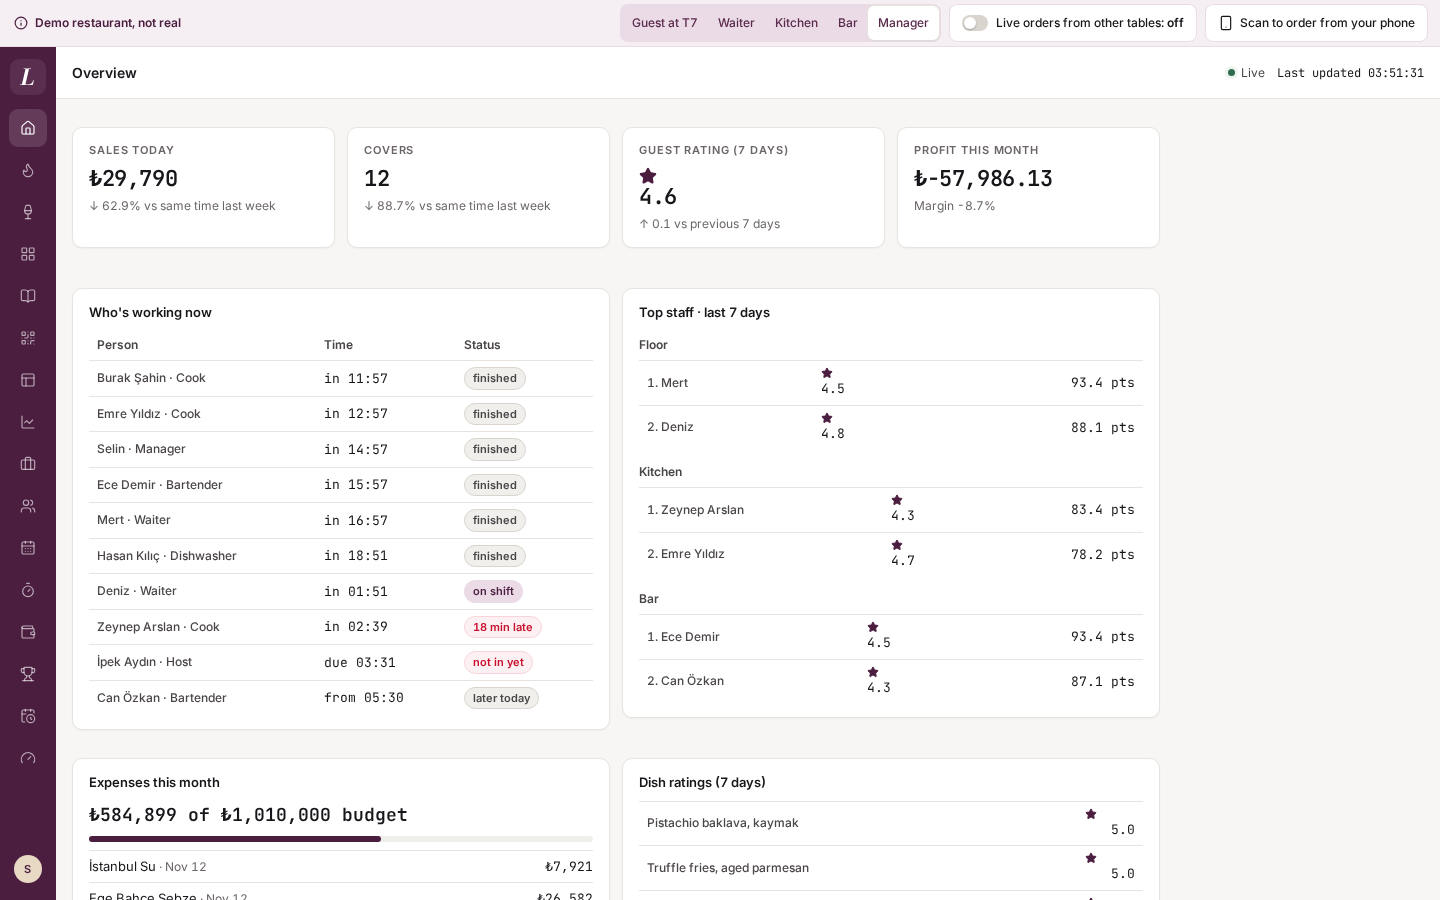
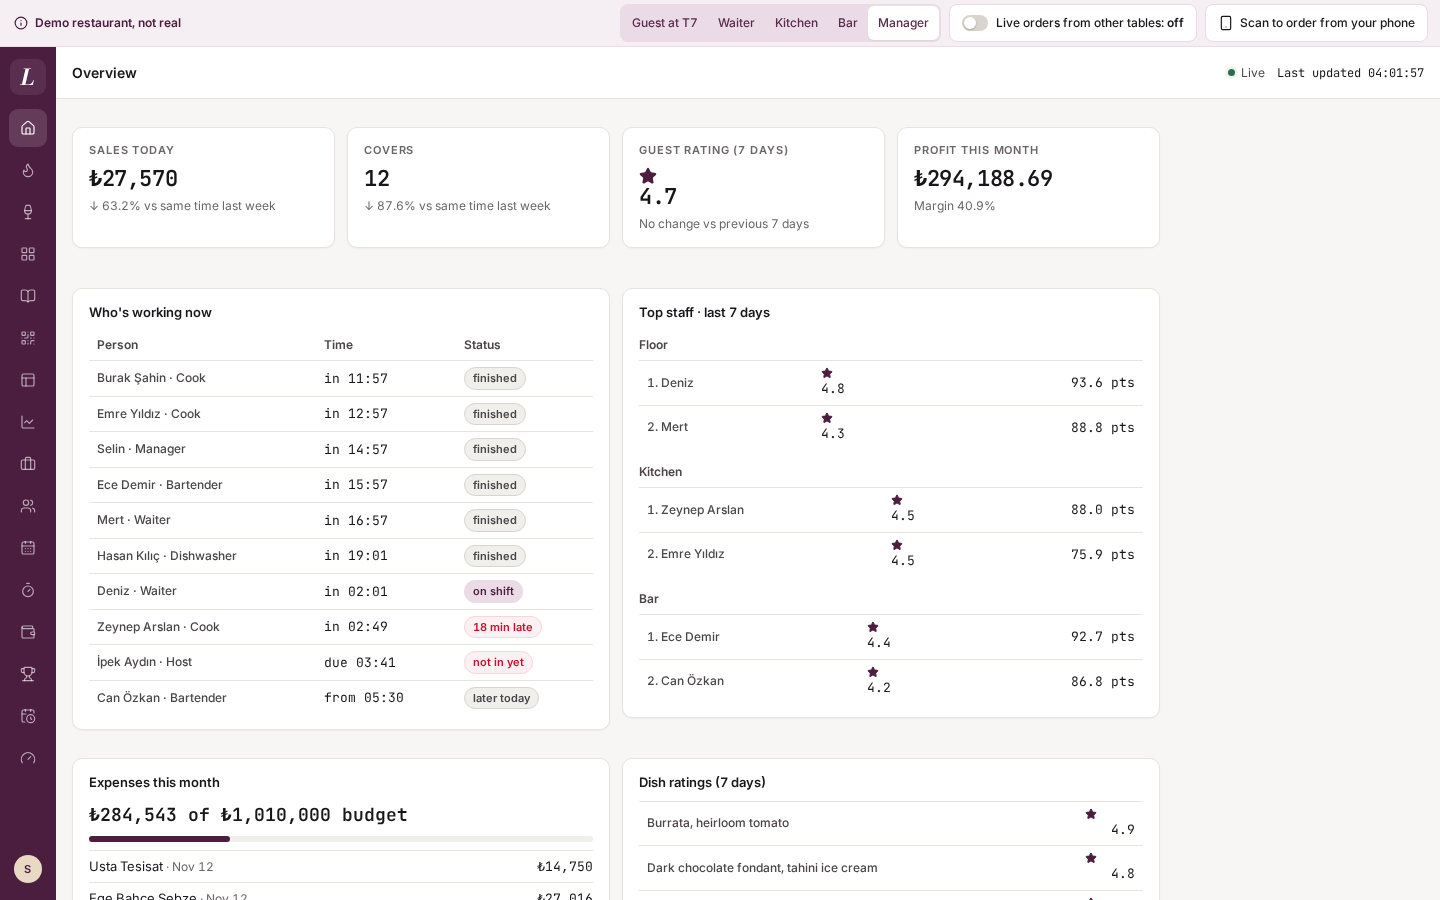
fix(demo): manager lands on the overview; seed a profitable current month
The demo Manager button opens /staff/overview. Rent is dated on each month's last day (so the current month's is not
in yet), utilities around the 20th, marketing weekly, and the Repairs spike in the last three days (over budget from
the 4th). A fresh demo's overview now shows a positive profit. Docs and the overview screenshot updated.

Claude-Session: https://claude.ai/code/session_01G1gUztbjonzCYopjxcu6K3

diff --git a/apps/api/test/seed.test.ts b/apps/api/test/seed.test.ts
@@ -1,6 +1,6 @@
 import { existsSync } from "node:fs";
 import { resolve } from "node:path";
-import { addDays, mondayOf, rateAt, serviceDayOf, serviceDayStartOf, splitByStation, TABLE_NAME_RE, ticketAgeState } from "@lodos/shared";
+import { addDays, monthLength, mondayOf, rateAt, serviceDayOf, serviceDayStartOf, splitByStation, TABLE_NAME_RE, ticketAgeState } from "@lodos/shared";
 import { afterAll, beforeAll, describe, expect, it } from "vitest";
 import { verifyPin } from "../src/auth/pin";
 import { createSession } from "../src/auth/sessions";
@@ -650,7 +650,7 @@ describe("demo ops seed (phase 3)", () => {
     }
   });
 
-  it("seeds four months of expenses: budgets, rent on the 1st, utilities around the 10th, Repairs over budget this month, none in the future", async () => {
+  it("seeds four months of expenses: budgets, rent on the last day, utilities around the 20th, weekly marketing, Repairs over budget this month, none in the future", async () => {
     const m = t.models;
     const [cats, expenses] = await inTenant(A, () => Promise.all([m.ExpenseCategory.find().sort({ sort: 1 }).lean(), m.Expense.find().lean()]));
     expect(cats.map((c) => [c.name.en, c.monthlyBudget / 100_000])).toEqual([
@@ -664,9 +664,12 @@ describe("demo ops seed (phase 3)", () => {
     for (const month of months) {
       const mine = expenses.filter((e) => e.date.startsWith(month));
       const rent = mine.filter((e) => catOf.get(String(e.categoryId)) === "Rent");
-      expect(rent.map((e) => [e.date.slice(8), e.amount])).toEqual([["01", 220_000_00]]);
+      // Paid on the month's last day, so the current month's is not in yet.
+      expect(rent.map((e) => [e.date, e.amount])).toEqual(month === "2026-11" ? [] : [[`${month}-${String(monthLength(month))}`, 220_000_00]]);
       const utilities = mine.filter((e) => catOf.get(String(e.categoryId)) === "Utilities");
-      for (const u of utilities) expect(Math.abs(Number(u.date.slice(8)) - 10)).toBeLessThanOrEqual(3);
+      for (const u of utilities) expect(Math.abs(Number(u.date.slice(8)) - 20)).toBeLessThanOrEqual(3);
+      const marketing = mine.filter((e) => catOf.get(String(e.categoryId)) === "Marketing").map((e) => Number(e.date.slice(8)));
+      marketing.forEach((d, i) => i > 0 && expect(d - marketing[i - 1]!).toBe(7));
       const food = mine.filter((e) => catOf.get(String(e.categoryId)) === "Suppliers – food");
       expect(new Set(food.map((e) => e.date)).size).toBe(food.length);
     }
@@ -679,13 +682,39 @@ describe("demo ops seed (phase 3)", () => {
       }
     }
     expect(spent("2026-11", "Repairs and maintenance")).toBeGreaterThan(60_000_00);
-    // On the 1st of a month too, Repairs is already over budget and nothing is dated after today.
-    const first = new Date("2026-12-01T09:00:00Z");
-    const id = newTenant();
-    await seedRestaurant(t.models, id, first, { liveService: true });
-    const [c2, e2] = await inTenant(id, () => Promise.all([m.ExpenseCategory.find().lean(), m.Expense.find().lean()]));
-    const repairs = String(c2.find((c) => c.name.en.startsWith("Repairs"))!._id);
-    expect(e2.every((e) => e.date <= serviceDayOf(first))).toBe(true);
-    expect(e2.filter((e) => e.date.startsWith("2026-12") && String(e.categoryId) === repairs).reduce((n, e) => n + e.amount, 0)).toBeGreaterThan(60_000_00);
+    // The spike is dated in the last three days; before the 4th only the compressor is in (under budget), and
+    // nothing is ever dated after today.
+    const repairsOn = async (now: Date) => {
+      const id = newTenant();
+      await seedRestaurant(t.models, id, now, { liveService: true });
+      const [c2, e2] = await inTenant(id, () => Promise.all([m.ExpenseCategory.find().lean(), m.Expense.find().lean()]));
+      const repairs = String(c2.find((c) => c.name.en.startsWith("Repairs"))!._id);
+      expect(e2.every((e) => e.date <= serviceDayOf(now))).toBe(true);
+      const month = serviceDayOf(now).slice(0, 7);
+      return e2.filter((e) => e.date.startsWith(month) && String(e.categoryId) === repairs);
+    };
+    const total = (rows: { amount: number }[]) => rows.reduce((n, e) => n + e.amount, 0);
+    const first = await repairsOn(new Date("2026-12-01T09:00:00Z"));
+    expect(first.map((e) => e.date)).toEqual(["2026-12-01"]);
+    expect(total(first)).toBeLessThan(60_000_00);
+    const fifth = await repairsOn(new Date("2026-12-05T09:00:00Z"));
+    expect(total(fifth)).toBeGreaterThan(60_000_00);
+    expect(fifth.every((e) => e.date >= "2026-12-02")).toBe(true);
   });
+
+  for (const iso of ["2026-11-14T18:00:00Z", "2026-11-05T18:00:00Z"]) {
+    it(`a fresh demo's overview shows a profit this month at ${iso}`, async () => {
+      const now = new Date(iso);
+      const id = newTenant();
+      await seedRestaurant(t.models, id, now, { liveService: true });
+      t.clock.set(now);
+      try {
+        const res = await managerGet(id, "/api/business/overview");
+        expect(res.statusCode, res.body).toBe(200);
+        expect(res.json().month.profit).toBeGreaterThan(0);
+      } finally {
+        t.clock.set(NOW);
+      }
+    });
+  }
 });

diff --git a/apps/api/src/seed/ops-seed.ts b/apps/api/src/seed/ops-seed.ts
@@ -445,8 +445,10 @@ const dow = (day: string) => new Date(`${day}T00:00:00Z`).getUTCDay();
 
 /**
  * Four calendar months of a Karaköy bistro's spending (this one so far): supplier deliveries spread over the month,
- * rent on the 1st, utilities around the 10th, and a broken cold room that puts Repairs over budget this month.
- * Past months stay within every budget. Nothing is dated after today.
+ * rent on the last day of each month (paid in advance for the next, so this month's is not in yet), utilities around
+ * the 20th, marketing every week, and a broken cold room in the last three days that puts Repairs over budget this
+ * month once it is the 4th (before that only the compressor is in). Past months stay within every budget. Nothing is
+ * dated after today.
  */
 function demoExpenses(today: string, catId: (en: string) => Types.ObjectId, createdBy: Types.ObjectId, rand: () => number, randInt: (lo: number, hi: number) => number) {
   const out: { categoryId: Types.ObjectId; amount: number; date: string; payee: string | null; note: string | null; createdBy: Types.ObjectId }[] = [];
@@ -474,21 +476,22 @@ function demoExpenses(today: string, catId: (en: string) => Types.ObjectId, crea
       ["Trakya Et", "Meat"], ["Bolu Süt Çiftliği", "Dairy and cheese"],
     ]);
     deliveries("Suppliers – drinks", [3, 6], [["Galata Şarap Evi", "Wine"], ["Boğaz İçecek Dağıtım", "Spirits and mixers"]]);
-    add("Rent", 1, DEMO_BUDGETS.Rent!, "Kemankeş Emlak", "Monthly rent");
-    add("Utilities", 8, lira(2_450), "Kuzey Fiber", "Internet");
-    add("Utilities", 10, lira(randInt(42_000, 50_000)), "Haliç Enerji", "Electricity");
-    add("Utilities", 11, lira(randInt(16_000, 24_000)), "Marmara Doğalgaz", "Gas");
-    add("Utilities", 12, lira(randInt(6_500, 9_000)), "İstanbul Su", "Water");
+    add("Rent", monthLength(month), DEMO_BUDGETS.Rent!, "Kemankeş Emlak", "Monthly rent");
+    add("Utilities", 18, lira(2_450), "Kuzey Fiber", "Internet");
+    add("Utilities", 20, lira(randInt(42_000, 50_000)), "Haliç Enerji", "Electricity");
+    add("Utilities", 21, lira(randInt(16_000, 24_000)), "Marmara Doğalgaz", "Gas");
+    add("Utilities", 22, lira(randInt(6_500, 9_000)), "İstanbul Su", "Water");
     if (month === thisMonth) {
       const d = Number(today.slice(8));
-      add("Repairs and maintenance", Math.min(d, 3), lira(48_600), "Soğuk Oda Teknik", "Cold room compressor replaced");
-      add("Repairs and maintenance", Math.min(d, 5), lira(14_750), "Usta Tesisat", "Kitchen tap and drain");
+      add("Repairs and maintenance", Math.max(1, d - 3), lira(48_600), "Soğuk Oda Teknik", "Cold room compressor replaced");
+      if (d >= 4) add("Repairs and maintenance", d - 1, lira(14_750), "Usta Tesisat", "Kitchen tap and drain");
     } else {
       add("Repairs and maintenance", 7, lira(randInt(14_000, 22_000)), "Soğuk Oda Teknik", "Cold room service");
       add("Repairs and maintenance", 21, lira(randInt(18_000, 24_000)), "Usta Tesisat", "Plumbing");
     }
-    add("Marketing", 5, lira(randInt(14_000, 18_000)), null, "Social media ads");
-    add("Marketing", 18, lira(randInt(8_000, 14_000)), "Tophane Matbaa", "Printed menus and cards");
+    for (let d = 3; d <= monthLength(month); d += 7) {
+      add("Marketing", d, lira(randInt(5_500, 6_500)), d % 2 ? null : "Tophane Matbaa", d % 2 ? "Social media ads" : "Printed menus and cards");
+    }
     add("Other", 7, lira(randInt(6_000, 9_000)), "Parlak Temizlik", "Cleaning supplies");
     add("Other", 15, lira(randInt(4_000, 6_000)), "Beyaz Çamaşırhane", "Linen laundry");
     add("Other", 25, lira(12_000), "Aylin Kaya", "Accountant");

diff --git a/apps/api/test/sandboxes.test.ts b/apps/api/test/sandboxes.test.ts
@@ -47,7 +47,7 @@ describe("demo sign-in and sandbox creation", () => {
       waiter: ["/staff/floor", "Deniz", "waiter"],
       kitchen: ["/staff/kitchen", "Kitchen", "kitchen"],
       bar: ["/staff/bar", "Bar", "bar"],
-      manager: ["/staff/menu", "Selin", "manager"],
+      manager: ["/staff/overview", "Selin", "manager"],
     } as const;
     for (const [role, [redirect, name]] of Object.entries(expected)) {
       const res = await signIn(t, role, { lodos_sb: sb });

diff --git a/e2e/management.spec.ts b/e2e/management.spec.ts
@@ -45,7 +45,6 @@ test("a rating reaches the manager's dashboards and a clock-in shows on the over
   const managerCtx = await joinSandbox(browser, guestCtx);
   const manager = await managerCtx.newPage();
   await demoAs(manager, "manager");
-  await manager.goto("/staff");
   await expect(manager).toHaveURL(/\/staff\/overview$/);
   const tile = manager.getByRole("group", { name: "Guest rating (7 days)" });
   await expect(tile).toBeVisible();

diff --git a/e2e/eighty-six.spec.ts b/e2e/eighty-six.spec.ts
@@ -12,6 +12,7 @@ test("an 86 from the manager reaches an open guest menu live", async ({ browser 
   const managerCtx = await browser.newContext();
   const manager = await managerCtx.newPage();
   await demoAs(manager, "manager");
+  await manager.goto("/staff/menu");
   await expect(manager.getByRole("heading", { level: 1, name: "Menu" })).toBeVisible();
 
   // A guest at T7 on another device of the same restaurant, menu open.

diff --git a/e2e/a11y.spec.ts b/e2e/a11y.spec.ts
@@ -134,6 +134,7 @@ test.describe("staff", () => {
 
   test("menu editor", async ({ page }) => {
     await demoAs(page, "manager");
+    await page.goto("/staff/menu");
     await expect(page.getByRole("heading", { level: 1, name: "Menu" })).toBeVisible();
     await expect(page.getByRole("switch").first()).toBeVisible();
     await expectAccessible(page, "menu editor");

diff --git a/apps/api/src/demo/routes.ts b/apps/api/src/demo/routes.ts
@@ -14,7 +14,7 @@ const REDIRECT = {
   waiter: "/staff/floor",
   kitchen: "/staff/kitchen",
   bar: "/staff/bar",
-  manager: "/staff/menu",
+  manager: "/staff/overview",
 } as const;
 
 /** Registers /api/demo/*. Call only in demo mode. */

diff --git a/docs/ARCHITECTURE.md b/docs/ARCHITECTURE.md
@@ -58,9 +58,9 @@ Sandboxes are tied to the browser by a signed, httpOnly cookie, capped at 200 li
 
 ## Management data: rollups and one reader
 
-Phase 3 adds ratings, a time clock, wages, expenses and the dashboards over them. Two decisions keep the numbers consistent:
+Phase 3 adds ratings, a time clock, wages, expenses and the dashboards over them. Five decisions keep the numbers consistent:
 
-- **Raw documents for the recent past, generated aggregates for the rest.** Guest `Rating` and staff `ClockEntry` documents are the source of truth for recent days (ratings for the last 14 days, clock entries for the last 35 in the demo seed). Older days exist only as generated aggregates on `DailySummary`: `ratings` (per waiter, per dish and per restaurant category, with a star distribution), `people` (minutes, overtime, labour cost, late shifts, station tickets) and `byServer`. A day never has both, so nothing is counted twice, and summaries stored before the feature read the new fields as empty.
+- **Raw documents for the recent past, generated aggregates for the rest.** Guest `Rating` and staff `ClockEntry` documents are the source of truth for recent days (ratings for the last 14 days, clock entries for the last 35 in the demo seed). Older days exist only as generated aggregates on `DailySummary`: `ratings` (per waiter, per dish and per restaurant category, with a star distribution), `people` (minutes, overtime, labour cost, late shifts, station tickets) and `byServer`. The seed gives each day either aggregates or raw documents (a raw rating with a comment is left out of its day's aggregate), because `opsForDays` sums both, and summaries stored before the feature read the new fields as empty.
 - **One reader, `opsForDays`** ([`apps/api/src/ops/daily.ts`](../apps/api/src/ops/daily.ts)). Given service days it returns each day's ratings, per-person figures and ticket times, merging the stored aggregate with whatever raw documents the day has. The overview, the monthly dashboard, the performance rankings, and My performance read through it, so a seeded day and a live day look the same to every screen and a rollup can be regenerated without touching a dashboard.
 - **One P&L function** ([`apps/api/src/business/pnl.ts`](../apps/api/src/business/pnl.ts)). Profit is sales minus food and drink cost, labour and other costs, in integer kuruş, and the overview and the monthly page (and so its PDF and CSV) both call it, so the figures reconcile to the kuruş. Labour prices each clock entry at the hourly rate in force at its clock-in, plus a 0.5x premium for hours past 45 in a Monday to Sunday week.
 - **Privacy at the API.** Hourly rates and other people's performance are manager-only endpoints; `/api/me/performance` returns only the caller's own figures, and the rank as `{ position, of }` with no names. The time clock needs no session, so its PIN check is rate-limited and locks out like the staff sign-in.

diff --git a/README.md b/README.md
@@ -21,7 +21,7 @@ Lodos is a portfolio project by [Cem Akçiçek](https://cemakcicek.com). The res
   <img src="docs/screenshots/schedule.png" alt="The weekly schedule grid with shifts per person, weekly totals and a warning for 47 hours" width="270">
 </p>
 <p>
-  <img src="docs/screenshots/overview.png" alt="The manager's overview: sales, covers, guest rating and profit tiles, who is working now with on shift and late statuses, top staff, expenses against budget and dish ratings" width="400">
+  <img src="docs/screenshots/overview.png" alt="The manager's overview: tiles for sales, covers, guest rating and profit, then who is working now, top staff, expenses against budget and dish ratings" width="400">
   <img src="docs/screenshots/monthly.png" alt="The monthly business dashboard for October: sales, food and drink cost, labour, other costs and profit, other costs by category and sales by day" width="400">
 </p>
 
